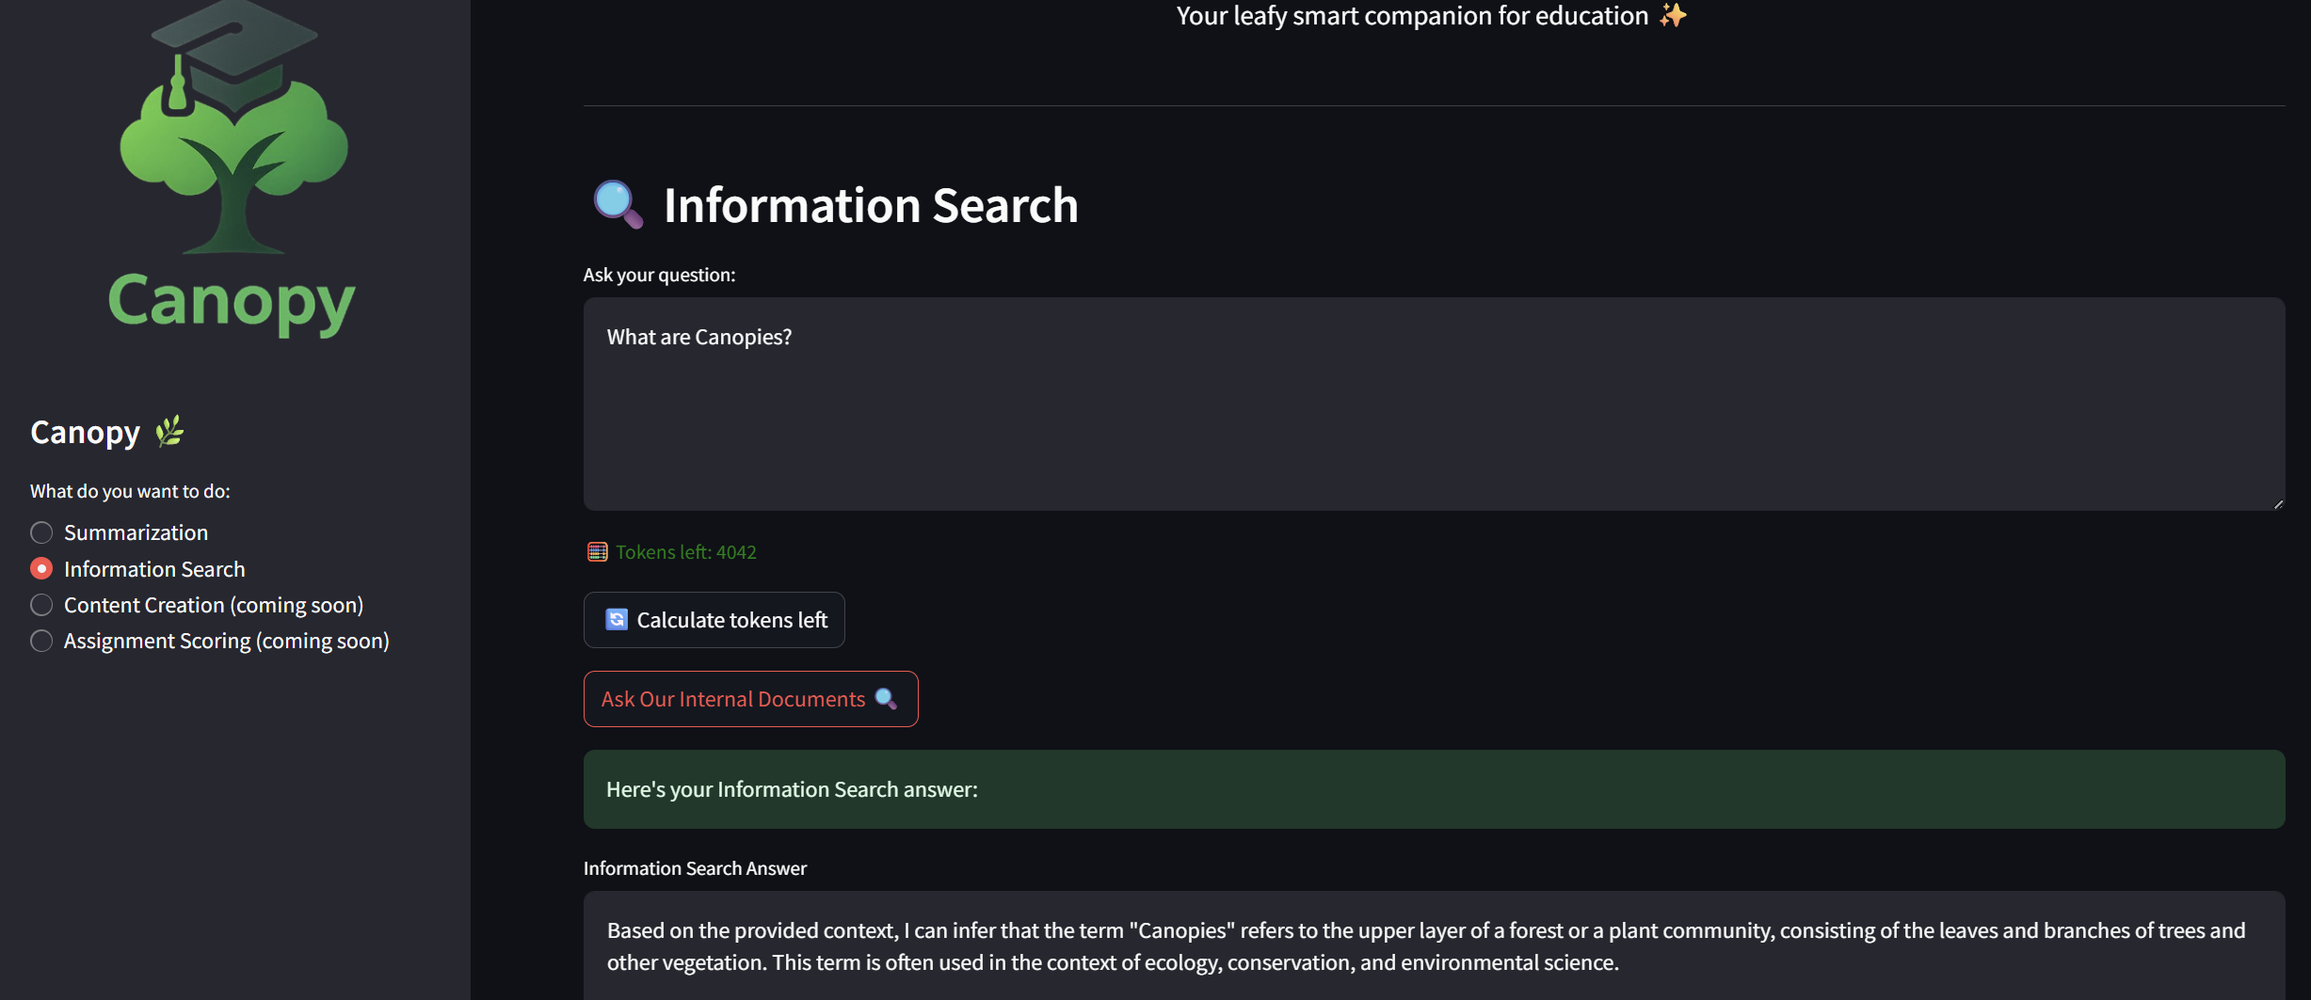
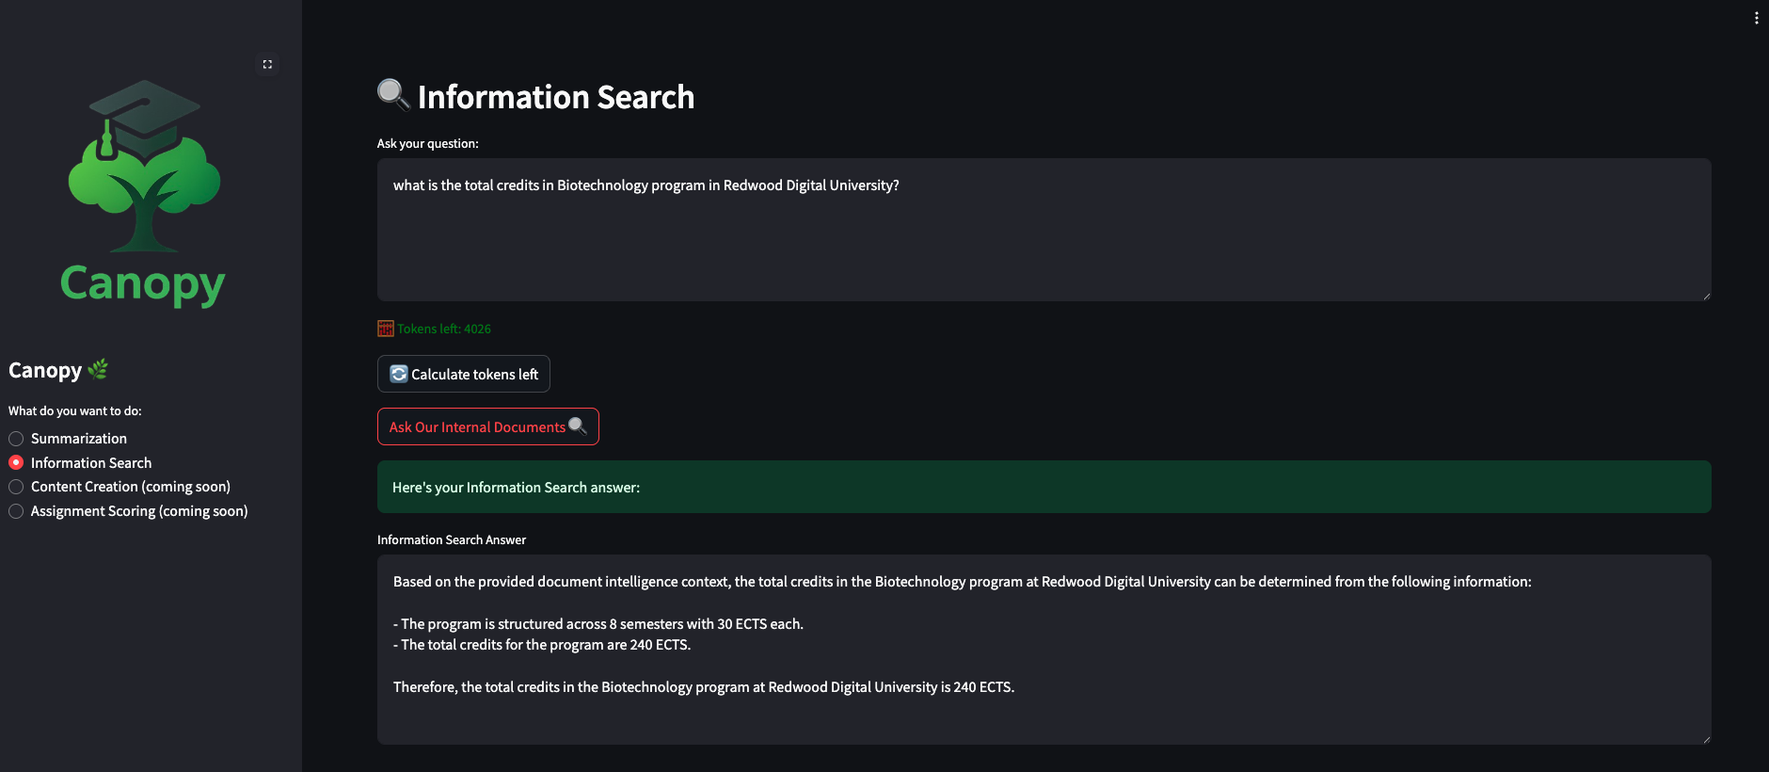
🌼some updates during dry run

Changed region(s): [[0.0, 0.0, 1.0, 1.0], [0.4936, 0.0, 0.7404, 0.0305], [0.9564, 0.7317, 1.0, 0.8537]]

diff --git a/docs/5-grounded-ai/4-rag-pipelines.md b/docs/5-grounded-ai/4-rag-pipelines.md
@@ -14,87 +14,124 @@ We are specifically looking to automate the top part, how new documents go into 
 
 ![Pipeline Architecture](images/rag4.png)
 
-## 🎯 Running the Document Ingestion Pipeline
+## Prepare the Storage Environment
 
-Time to deploy your document intelligence RAG system in production!
+1. We are going to use the existing MinIO as our document storage, but we need one extra bucket for the documents. Let's update `genaiops-gitops/toolings/minio/config.yaml` as below:
 
-1. First, set up persistent storage for content transfer between pipeline stages. One stage might download the documents, the next stage might transform them, and later stage might process them further. Persistent storage ensures each stage can access the outputs of the previous one.
-
-   ```bash
-   oc apply -f canopy/5-rag/4-kfp-pipeline-pvc.yaml -n <USER_NAME>-prod
+   ```yaml
+   ---
+   chart_path: charts/minio
+   buckets:
+   - name: pipeline
+   - name: test-results
+   - name: documents # 👈 add this one
    ```
 
-   This creates a `canopy-workspace-pvc` that allows pipeline components to share processed document content efficiently.
+2. Let's commit this change!
 
-2. Open `canopy/5-rag/6-kfp_pipeline.py`, this is your document processing pipeline. It will:
-   - Set up Docling
+   ```bash
+   cd /opt/app-root/src/genaiops-gitops
+   git add .
+   git commit -m  "🪣 ADD - document bucket 🪣"
+   git push
+   ```
+
+3. But which document we are going to ingest, you asked! We are going to ingest RDU's syllabus for different programs! Let's head to the RDU's website (what? you didn't think we had a website 😒). 
+
+   [🌲 Redwood Digital University website](https://rdu-website-ai501.<CLUSTER_DOMAIN>)
+
+   Head over to the webpage, look through the programs and download the syllabus from your favourite program! Save it locally, we are going to upload it to `documents` bucket in MinIO. 
+
+4. Go to your [MinIO instance](https://minio-ui-<USER_NAME>-toolings.<CLUSTER_DOMAIN>) and login with your credentials.
+
+5. Under `Object Browser`, go to `documents` bucket and drop the PDF you downloaded. 
+
+   ![minio-upload-pdf.gif](./images/minio-upload-pdf.gif)
+
+   ![trash-gif](https://media2.giphy.com/media/v1.Y2lkPTc5MGI3NjExaG5ia3k0bWdiNWNiMDB4cWhid20yYWc2endsdm12aHZ2aHJmdnQwZiZlcD12MV9pbnRlcm5hbF9naWZfYnlfaWQmY3Q9Zw/ytSUKYKGw054uqCHpP/giphy.gif)
+
+6. Now that we have the documents to ingest, let's create a document ingestion pipeline to move them into our vector database!
+
+## 🎯 Running the Document Ingestion Pipeline
+
+Time to run yet another pipeline!
+
+1. Open `canopy/5-rag/6-kfp_pipeline.py`, this is your document processing pipeline. It will:
+   - Connects to Docling
    - Process the documents
    - Connect to your vector database
    - Add the processed documents to the database
-   - And finally, run a test to make sure everything worked well
-
 
    Much of this processed is based on these settings/arguments you can find close to the bottom of the pipeline code, review them quick to see that we are doing the same thing as before, now just automated:
 
    ```python
    arguments = {
-       "document_url": "https://arxiv.org/pdf/2404.14661",        # Research paper URL
-       "test_queries": [
-           "What is the PRFXception mentioned in the document?",   # Academic concept query
-       ],
-       "embedding_model": "all-MiniLM-L6-v2",                     # Optimized for education
-       "embedding_dimension": 384,                                 # Performance-balanced
-       "chunk_size_tokens": 512,                                   # Academic content chunks
-       "vector_provider": "milvus",                                # Production vector DB
-       "docling_service": "http://docling-v0-7-0-predictor.ai501.svc.cluster.local:5001",
-       "processing_timeout": 180,                                  # 3 min for complex docs
-       "llama_stack_url": "http://llama-stack-service:8321",      # AI inference service
-       "model_id": "llama32",                                      # Educational LLM
-       "temperature": 0.0,                                         # Deterministic responses
-       "max_tokens": 4096                                          # Comprehensive answers
-   }
+        "minio_secret_name": "documents", 
+        "minio_bucket_name": "documents",  
+        "embedding_model": "all-MiniLM-L6-v2",
+        "embedding_dimension": 384,
+        "chunk_size_tokens": 512,
+        "vector_provider": "milvus",
+        "docling_service": "http://docling-v0-7-0-predictor.ai501.svc.cluster.local:5001",
+        "processing_timeout": 180,
+        "llama_stack_url": "http://llama-stack-service:8321",            # We will update these values later
+        "prod_llama_stack_url": "http://llama-stack-service-prod:8321",  # We will update these values later
+        "model_id": "llama32",
+        "temperature": 0.0,
+        "max_tokens": 4096,
+        "vector_db_id": "docling_vector_db_genaiops",  
+        "test_vector_db_alias": "latest" 
+    }
    ```
 
-3. If we were to just run the pipeline here we would run it against our `<USER_NAME>-canopy` namespace, but we want to run it against test and prod instead.  
-   To do that, let's export it, run it on a schedule in our `toolings` namespace and point it to test and prod. This way we could ingest new documents on a schedule.
+2. Let's export it to run it in our `<USER_NAME>-toolings` namespace and point it to test and prod.
    To export our pipeline, compile it by running
    ```bash
    cd /opt/app-root/src/canopy/5-rag
-   python 4-kfp_pipeline.py
+   python kfp_pipeline.py
    ```
-   And then download the file `canopy/5-rag/document-intelligence-rag.yaml` to your local machine.
+   It should generate a file called `document-intelligence-rag.yaml`. Download it to your local machine.
    
 
-4. Go to OpenShift AI and enter your `user5-toolings` project. In there, go to `Pipelines` and click `Import pipeline`.
+3. Go to OpenShift AI and enter your `<USER_NAME>-toolings` project. In there, go to `Pipelines` and click `Import pipeline`.
 
    ![import-pipeline](images/import-pipeline.png)
 
-5. Give the pipeline a good name, like `Document Ingestion`, and the upload the yaml file you just downloaded.
+4. Give the pipeline a good name, like `Document Ingestion`, and the upload the yaml file you just downloaded.
 
-6. Let's start by running it ad-hoc to make sure it works, press on `Actions` in the pipeline view and `Create run`
+   ![imported-pipeline.png](./images/imported-pipeline.png)
 
-   ![Create run action](images/create-run-action.png)
+5. Let's start by running it ad-hoc to make sure it works, press on `Actions` in the pipeline view and `Create run`
 
-7. Give the run a name, like `Ingest research article`, and then change the Llama Stack url to `http://llama-stack-service.<USER_NAME>-test.svc.cluster.local:8321` to point it to the Llama Stack in our test environment. It should look something like this:
+6. Give the run a name, like `Ingest physics syllabus`, and then change the Llama Stack values as below:
+
+   `llama_stack_url`: http://llama-stack-service.<USER_NAME>-test.svc.cluster.local:8321
+
+   `prod_llama_stack_url`: http://llama-stack-service.<USER_NAME>-prod.svc.cluster.local:8321
+
+
+   It should look something like this:
 
    ![llama-stack-url](images/llama-stack-url.png)
 
-8. Press `Create run` to start running the pipeline 🏃♀
+7.  Press `Create run` to start running the pipeline 🏃♀
 
-9. We can monitor the progress of our pipeline in OpenShift AI.
+8.  We can monitor the progress of our pipeline in OpenShift AI.
 
    ![Pipeline Monitoring](images/rag9.png)
 
    The run should take about 5-6 minutes to finish.
 
-10. Click on one of the steps to access information about inputs, outputs, and logs:
+9.  For the curious ones, click on one of the steps to access information about inputs, outputs, and logs:
 
    ![Pipeline Monitoring](images/rag10.png)
 
-11. After this is done you will see a new collection in Attu, check it out: 
+10. After this is done you will see a new collection in Attu, check it out: 
    ```
    https://milvus-test-attu-<USER_NAME>-test.<CLUSTER_DOMAIN>
    ```
+
+   ![attu-new-collections.png](./images/attu-new-collections.png)
 
 ### What You've Built
 

diff --git a/docs/5-grounded-ai/6-eval-rag.md b/docs/5-grounded-ai/6-eval-rag.md
@@ -13,7 +13,7 @@ To do that, we simply need to add a new eval folder with some tests in it.
 
 1. Go to your workbench and navigate to `canopy-evals`
 
-2. Then start by making a copy of the `summary` folder and rename it as `information-search`. Here are the commands if you don't want to do it manually:
+2. Then start by making a copy of the `Summary` folder and rename it as `information-search`. Here are the commands if you don't want to do it manually:
 
     ```bash
     cp -r /opt/app-root/src/canopy-evals/Summary /opt/app-root/src/canopy-evals/information-search
@@ -21,40 +21,42 @@ To do that, we simply need to add a new eval folder with some tests in it.
     ```
 
 3. After that, there are a few things we need to change in our new `information-search` folder, specifically inside `information-search.yaml`:
-    - The name `summary_tests`
-    - The endpoint `/summarize`
+    - The name
+    - The endpoint 
     - And of course the prompts
 
-    Open up `canopy-evals/information-search` and past in this for a good baseline:
+  Open up `canopy-evals/information-search` and paste this and overwrite the whole file for a good baseline:
 
-    ```yaml
-    name: information_search_tests
-    description: Tests for the information-search prompts of the Llama 3.2 3B model.
-    model: llama32
-    endpoint: /information-search
-    scoring_params:
-        "llm-as-judge::base":
-            "judge_model": llama32
-            "prompt_template": judge_prompt.txt
-            "type": "llm_as_judge"
-            "judge_score_regexes": ["Answer: (A|B|C|D|E)"]
-        "basic::subset_of": null
-    tests:
-    - prompt: "Describe the main learning outcomes for students completing the Advanced Generative AI Systems course."
-      expected_result: "Students will learn to design GenAI applications, engineer prompts with evaluation, build production systems with CI/CD, implement RAG pipelines, secure LLM apps with guardrails, integrate multi-modal models, optimize models via quantization, instrument monitoring systems, orchestrate agents with tool-calling, and operate MaaS with APIs and governance."
-    - prompt: "What are the key modules covered in weeks 5-8 of the AI501 curriculum?"
-      expected_result: "Week 5 covers RAG Foundations (embeddings, chunking, ingestion pipelines), Week 6 covers Guardrails (safety taxonomies, filters, jailbreak defense), Week 7 covers Observability (tracing, metrics, logs, SLI/SLO), and Week 8 covers Tool-Calling & Agents (function calling, MCP, planner/critic loops)."
-    - prompt: "What assessment components make up the AI501 course evaluation and what are their weightings?"
-      expected_result: "Assessment includes Prompting & Eval Harness (10%), RAG Mini-System (15%), Guardrails & Red-Team (10%), Observability Pack (10%), Optimization Lab (10%), Agent with Tools (10%), Capstone (30%), and Participation (5%)."
-    - prompt: "Explain what RAG implementation involves according to the course syllabus."
-      expected_result: "RAG implementation involves building pipelines for ingestion, indexing, and retrieval with citations and provenance. Students learn embeddings, chunking strategies, ingestion pipelines, and create ETL→vector DB→retrieval→generation systems with citations."
-    - prompt: "What technologies and platforms are used in the AI501 course infrastructure?"
-      expected_result: "The course uses AI/ML platforms like Llama Stack abdHugging Face; development tools including Python, PyTorch, LangChain, Docker, and Kubernetes; infrastructure with GPU clusters and vector databases like Pinecone and Weaviate; plus security and monitoring tools for guardrails and observability."
-    - prompt: "What are the four practical implementation tracks available in AI501?"
-      expected_result: "The four tracks are: Production AI Systems (Llama Stack, GitOps, CI/CD), Knowledge Grounding (RAG design, vector DBs, doc pipelines), AI Safety & Security (Guardrails, red-teaming, observability), and Advanced Applications (Agents/tool-calling, multi-modal, model optimization)."
-    ```
+
+```yaml
+name: information_search_tests
+description: Tests for the information-search prompts of the Llama 3.2 3B model.
+model: llama32
+endpoint: /information-search
+scoring_params:
+    "llm-as-judge::base":
+        "judge_model": llama32
+        "prompt_template": judge_prompt.txt
+        "type": "llm_as_judge"
+        "judge_score_regexes": ["Answer: (A|B|C|D|E)"]
+    "basic::subset_of": null
+tests:
+  - prompt: "Describe the main learning outcomes for students completing the Advanced Generative AI Systems course."
+    expected_result: "Students will learn to design GenAI applications, engineer prompts with evaluation, build production systems with CI/CD, implement RAG pipelines, secure LLM apps with guardrails, integrate multi-modal models, optimize models via quantization, instrument monitoring systems, orchestrate agents with tool-calling, and operate MaaS with APIs and governance."
+  - prompt: "What are the key modules covered in weeks 5-8 of the AI501 curriculum?"
+    expected_result: "Week 5 covers RAG Foundations (embeddings, chunking, ingestion pipelines), Week 6 covers Guardrails (safety taxonomies, filters, jailbreak defense), Week 7 covers Observability (tracing, metrics, logs, SLI/SLO), and Week 8 covers Tool-Calling & Agents (function calling, MCP, planner/critic loops)."
+  - prompt: "What assessment components make up the AI501 course evaluation and what are their weightings?"
+    expected_result: "Assessment includes Prompting & Eval Harness (10%), RAG Mini-System (15%), Guardrails & Red-Team (10%), Observability Pack (10%), Optimization Lab (10%), Agent with Tools (10%), Capstone (30%), and Participation (5%)."
+  - prompt: "Explain what RAG implementation involves according to the course syllabus."
+    expected_result: "RAG implementation involves building pipelines for ingestion, indexing, and retrieval with citations and provenance. Students learn embeddings, chunking strategies, ingestion pipelines, and create ETL→vector DB→retrieval→generation systems with citations."
+  - prompt: "What technologies and platforms are used in the AI501 course infrastructure?"
+    expected_result: "The course uses AI/ML platforms like Llama Stack abdHugging Face; development tools including Python, PyTorch, LangChain, Docker, and Kubernetes; infrastructure with GPU clusters and vector databases like Pinecone and Weaviate; plus security and monitoring tools for guardrails and observability."
+  - prompt: "What are the four practical implementation tracks available in AI501?"
+    expected_result: "The four tracks are: Production AI Systems (Llama Stack, GitOps, CI/CD), Knowledge Grounding (RAG design, vector DBs, doc pipelines), AI Safety & Security (Guardrails, red-teaming, observability), and Advanced Applications (Agents/tool-calling, multi-modal, model optimization)."
+```
     
-    Note: These prompts are for the course AI501, depending on what course you ingested before you may need to change them to match your content. To find good prompts and expected responses you can try running a few through the **Canopy UI** or **Llamastack Playground**.
+
+  Note: These prompts are for the course AI501, depending on what course you ingested before you may need to change them to match your content. To find good prompts and expected responses you can try running a few through the **Canopy UI** or **Llamastack Playground**.
 
 4. After you are happy with the evaluation, make sure to commit it to git:
     ```bash
@@ -65,3 +67,5 @@ To do that, we simply need to add a new eval folder with some tests in it.
     ```
 
 5. Our eval pipeline should trigger off of this git push, just like in the `Ready to Scale 201` section you can go to OpenShift Pipelines to see how it's progressing.
+
+You can find the results in MinIo `test-results` bucket but let's continue to automate this whole flow and see the results in our little Prompt Tracker application.

diff --git a/docs/5-grounded-ai/7-rag-tekton.md b/docs/5-grounded-ai/7-rag-tekton.md
@@ -1,0 +1,78 @@
+## Automate the Flow with Tekton
+
+1. Let's automate this whole flow when there is a new document uplaoded to MonIO! For that we need to deploy a Tekton pipeline and in the end the whole flow will look like this:
+
+    ![doc-ingestion-tekton-flow.png](./images/doc-ingestion-tekton-flow.png)
+
+
+  Let's deploy the Tekton pipeline by creating a folger under `genaiops-gitops/toolings` as below:
+
+  ```bash
+  mkdir -p /opt/app-root/src/genaiops-gitops/toolings/doc-ingestion-pipeline
+  touch /opt/app-root/src/genaiops-gitops/toolings/doc-ingestion-pipeline/config.yaml
+  ```
+
+2. Update the `config.yaml` file:
+
+```yaml
+chart_path: charts/canopy-doc-ingestion-pipeline
+username: <USER_NAME>
+cluster_domain: <CLUSTER_DOMAIN>
+```
+
+3. Commit and push changes as always.
+    ```bash
+    cd /opt/app-root/src/genaiops-gitops
+    git add .
+    git commit -m "🦁 RAG doc ingestion pipeline added 🦁"
+    git push
+    ```
+
+4. This pipeline will give you a webhook to add to MinIO so when we upload a file, MinIO can trigger the Tekton pipeline. So go to MinIO > Events and click on `Add Event Destination` on the right top. Select `Webhook`:
+
+    ![minio-webhook-1.png](./images/minio-webhook-1.png)
+
+5. Fill out the form with these two information:
+
+    Identifier: `doc-ingestion-webhook`
+
+    Endpoint: `http://el-canopy-doc-ingestion-event-listener.<USER_NAME>-toolings.svc.cluster.local:8080`
+
+    ..and hit `Save Event Destination`.
+
+    ![minio-webhook-2.png](./images/minio-webhook-2.png)
+
+6. Strangely on top, MinIO will ask you to restart it to make the configuration takes effec. Click `Restart` and just refresh the page 🤷
+
+    ![minio-webhook-3.png](./images/minio-webhook-3.png)
+
+7. Now, let's associate this webhook with `documents` bucket. Go to Buckets > `documents` > Events and click `Subscribe to Event`. Select your nwly created webhook from the dropdown menu of ARN, and check `PUT - Object Uploaded` as the event. `Save` your changes. You don't have to restart it again :)
+
+    ![minio-webhook-4.png](./images/minio-webhook-4.png)
+
+8. Now, you can download yet another syllabus that your choice from [RDU website](https://rdu-website-ai501.<CLUSTER_DOMAIN>) and upload it to `documents` bucket. You need to go to Object Browser > documents for it.
+
+    ![minio-upload-pdf.gif](./images/minio-upload-pdf.gif)
+
+9. After you upload the PDF, go to OpenShift console > Pipelines and observe that a pipeline is triggered.
+
+    ![rag-tekton-pipeline.png](./images/rag-tekton-pipeline.png)
+
+10. And if you go nack to OpenShift AI console, you'll see that doc-ingestion Kubeflow Pipeline is running:
+
+    ![rag-kfp-pipelinerun.png](./images/rag-kfp-pipelinerun.png)
+
+11. After the pipeline finish, you'll see a automated push happened in `canopy-be` repository. 
+
+    ![gitea-auto-commit.png](./images/gitea-auto-commit.png)
+
+    And this push triggers, YES, the evals pipeline! 
+
+    ![trigger-evals.png](./images/trigger-evals.png)
+
+    After the eval pipeline finishes, you can find a PR in `canopy-be` repository to update vector DB ID in production. And in the description, you'll see a link to evaluation results. You need to check the results and decide whether to accept this change or go back and do some more test, more data ingestions etc. You are the human in the loop here :)
+
+    !
+
+
+    And your evals doesn't cover anything related to the last PDF you uploaded? Feel free to update your evals, add more prompt & expected result pairs. 

diff --git a/docs/5-grounded-ai/5-rag-canopyUI.md b/docs/5-grounded-ai/5-rag-canopyUI.md
@@ -1,11 +1,5 @@
 # 🌐 Powering Canopy with RAG Capabilities
 
-Now that you have a production-ready document intelligence RAG pipeline processing academic papers automatically, it's time to bring this powerful capability directly to your students through an intuitive web interface.
-
-**Canopy** transforms your automated RAG system into an interactive educational platform where students ask intelligent questions, and receive comprehensive answers backed by document intelligence.
-
-Your production pipeline handles the heavy lifting in the background, while Canopy provides the user-friendly frontend that makes document intelligence accessible to everyone.
-
 ## Integrate RAG into Canopy
 
 The Canopy application we deployed already has RAG built-in as you may have seen from the feature list on the left, we just need to enable the feature flag.
@@ -23,8 +17,9 @@ The Canopy application we deployed already has RAG built-in as you may have seen
      max_tokens: 4096
      prompt: |
        You are a helpful assistant. Summarize the given text please.
-    information-search:
+    information-search:         # 👈 add this block
      enabled: true
+     vector_db_id: latest
      model: llama32
      prompt: |
        You are a helpful assistant specializing in document intelligence and academic content analysis.
@@ -39,9 +34,12 @@ The Canopy application we deployed already has RAG built-in as you may have seen
     git push
     ```
 
-4. Open the Canopy UI (https://canopy-ui-<USER_NAME>-test.<CLUSTER_DOMAIN> if you have closed it since last time), change to the Information Search feature in the left menu and ask something like `What are Canopies?`
+4. Open the Canopy UI (https://canopy-ui-<USER_NAME>-test.<CLUSTER_DOMAIN> if you have closed it since last time), change to the Information Search feature in the left menu and ask something like `what is the total credits in Biotechnology program in Redwood Digital University?`
 
     ![ask-canopy.png](images/ask-canopy.png)
 
 Congratulations! 🎉  
 You now have a fully functioning RAG system where you can ingest complex documents as needed.
+
+But the question is, are we going to run the pipeline manually every time or do we have a better way to do this? And what about production? Are we going to push without any test?
+Let's advance to the next section!

diff --git a/docs/_sidebar.md b/docs/_sidebar.md
@@ -27,6 +27,7 @@
   * [⚙ RAG Pipelines](5-grounded-ai/4-rag-pipelines.md)
   * [🌳 Canopy with RAG](5-grounded-ai/5-rag-canopyUI.md)
   * [🥼 RAG Evals](5-grounded-ai/6-eval-rag.md)
+  * [🐉 Pipeline of Pipelines!](5-grounded-ai/7-rag-tekton.md)
 * [The Honor Code](6-honor-code/README.md)
   * [🎓 Guardrais](6-honor-code/1-guardrails.md)
   * [🔦 Guardrails Orchestrator](6-honor-code/2-guardrails_orchestrator.md)
